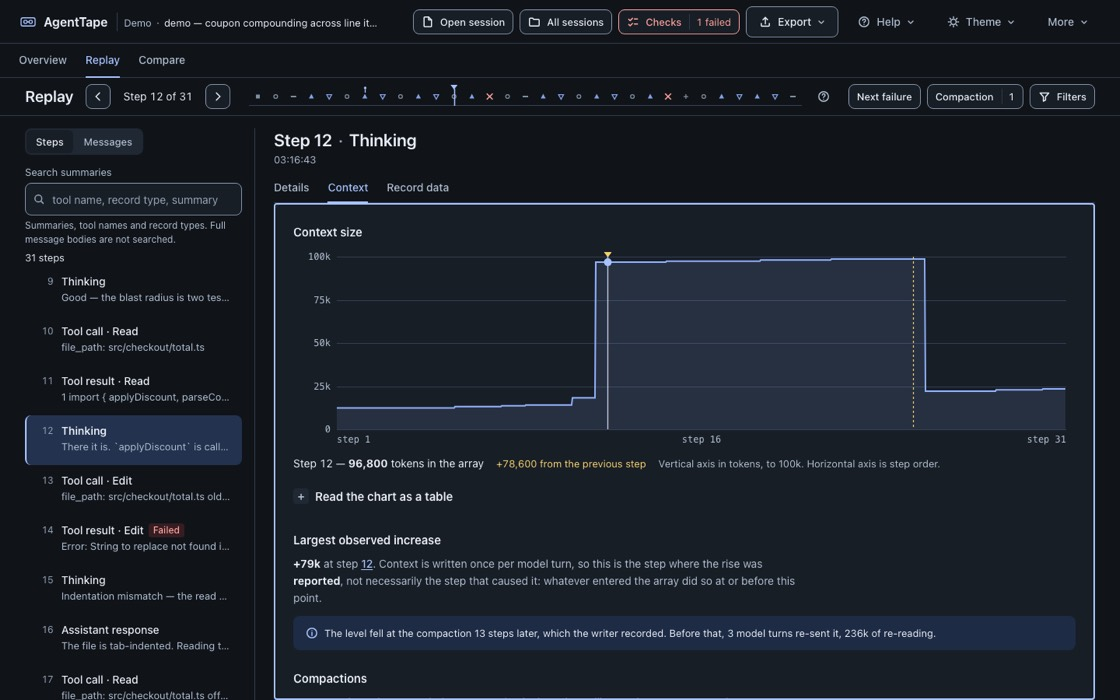
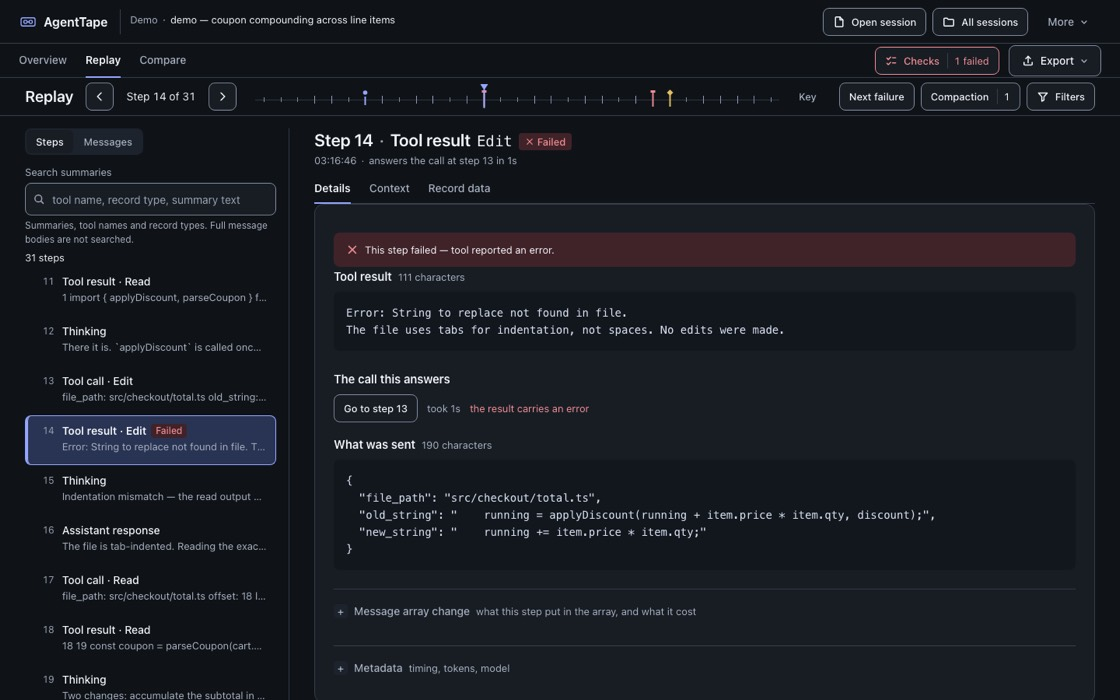
Reshoot the screens against the polished build
Nine views at the sizes they were checked at, plus the README's own picture.
All from the demo tape or synthetic fixtures, as before — no project directory,
no session id and no line of anybody's transcript in any of them.

diff --git a/docs/screens/README.md b/docs/screens/README.md
@@ -10,14 +10,14 @@ session id anywhere in the tree, and a screenshot is a file in the tree.
 
 | | |
 | --- | --- |
-| `home.jpg` | the landing page, 1280×720 |
-| `overview.jpg` | one session's overview, 1280×720 |
-| `replay-context.jpg` | Replay, the context view, 1280×720 |
-| `checks.jpg` | the checks panel over the overview, 1280×720 |
-| `compare.jpg` | two runs compared, 1280×720 |
-| `all-sessions.jpg` | the session index, from two synthetic transcripts, 1280×860 |
+| `home.jpg` | the landing page, 1440×900 |
+| `overview.jpg` | one session's overview, 1440×900 |
+| `replay-context.jpg` | Replay, the context view, 1440×900 |
+| `checks.jpg` | the checks panel, 1440×900 |
+| `compare.jpg` | two runs compared, 1440×900 |
+| `all-sessions.jpg` | the session index before a folder is chosen, 1440×900 |
 | `replay-narrow.jpg` | Replay at 390×844 |
 | `replay-200pct-zoom.jpg` | Replay at 200% browser zoom on a 1440×900 screen |
-| `context-dark.jpg` | the context view in the dark theme, 1440×900 |
+| `context-dark.jpg` | Replay in the dark theme, 1440×900 |
 
 `../replay.jpg` is the one in the README and is the same demo.

diff --git a/README.md b/README.md
@@ -10,7 +10,7 @@ and the forty minutes where nothing happened at all.
 
 ![A replayed session: the step list, and the failed tool result with the call it answers](docs/replay.jpg)
 
-*The built-in demo tape, at the first failed tool call. The list on the left says what every step is; the panel shows the result that failed, the call it answers, and how long that call took. The overview this arrived from is one click away, and so is the context view that explains the +79k jump at step 12.*
+*The built-in demo tape, at the first failed tool call. The list on the left says what every step is; the panel shows the result that failed, the call it answers, and how long that call took. Above them the rail is quiet grey texture with the events picked out — two red failures, an amber compaction, the accent dot of a delegated run — and the blue line is where you are.*
 
 Your transcripts never leave this machine. AgentTape opens a `.jsonl` from
 `~/.claude/projects/` and parses it entirely in your browser: there is no
